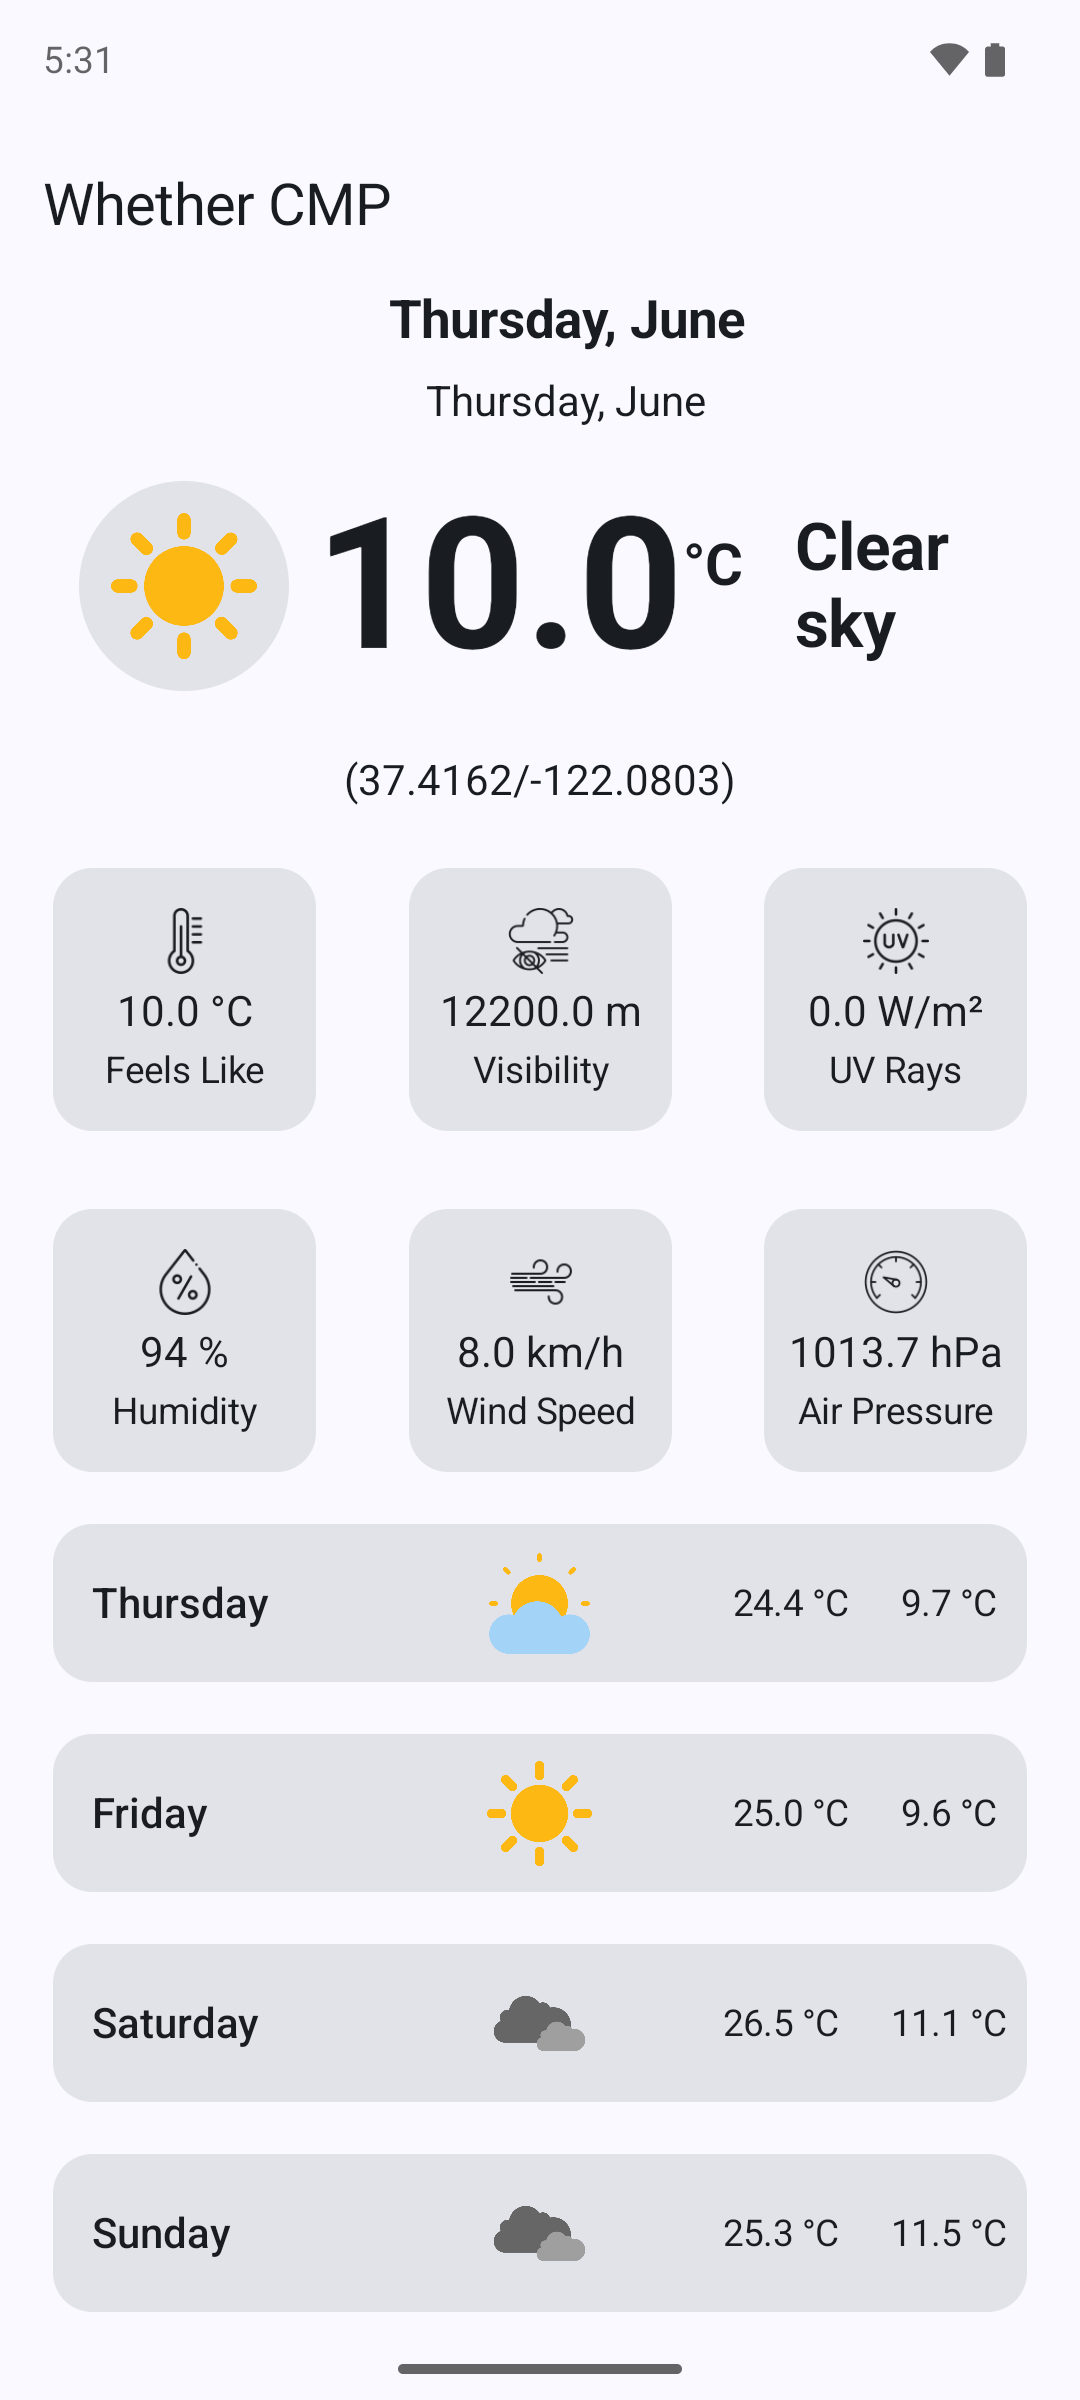
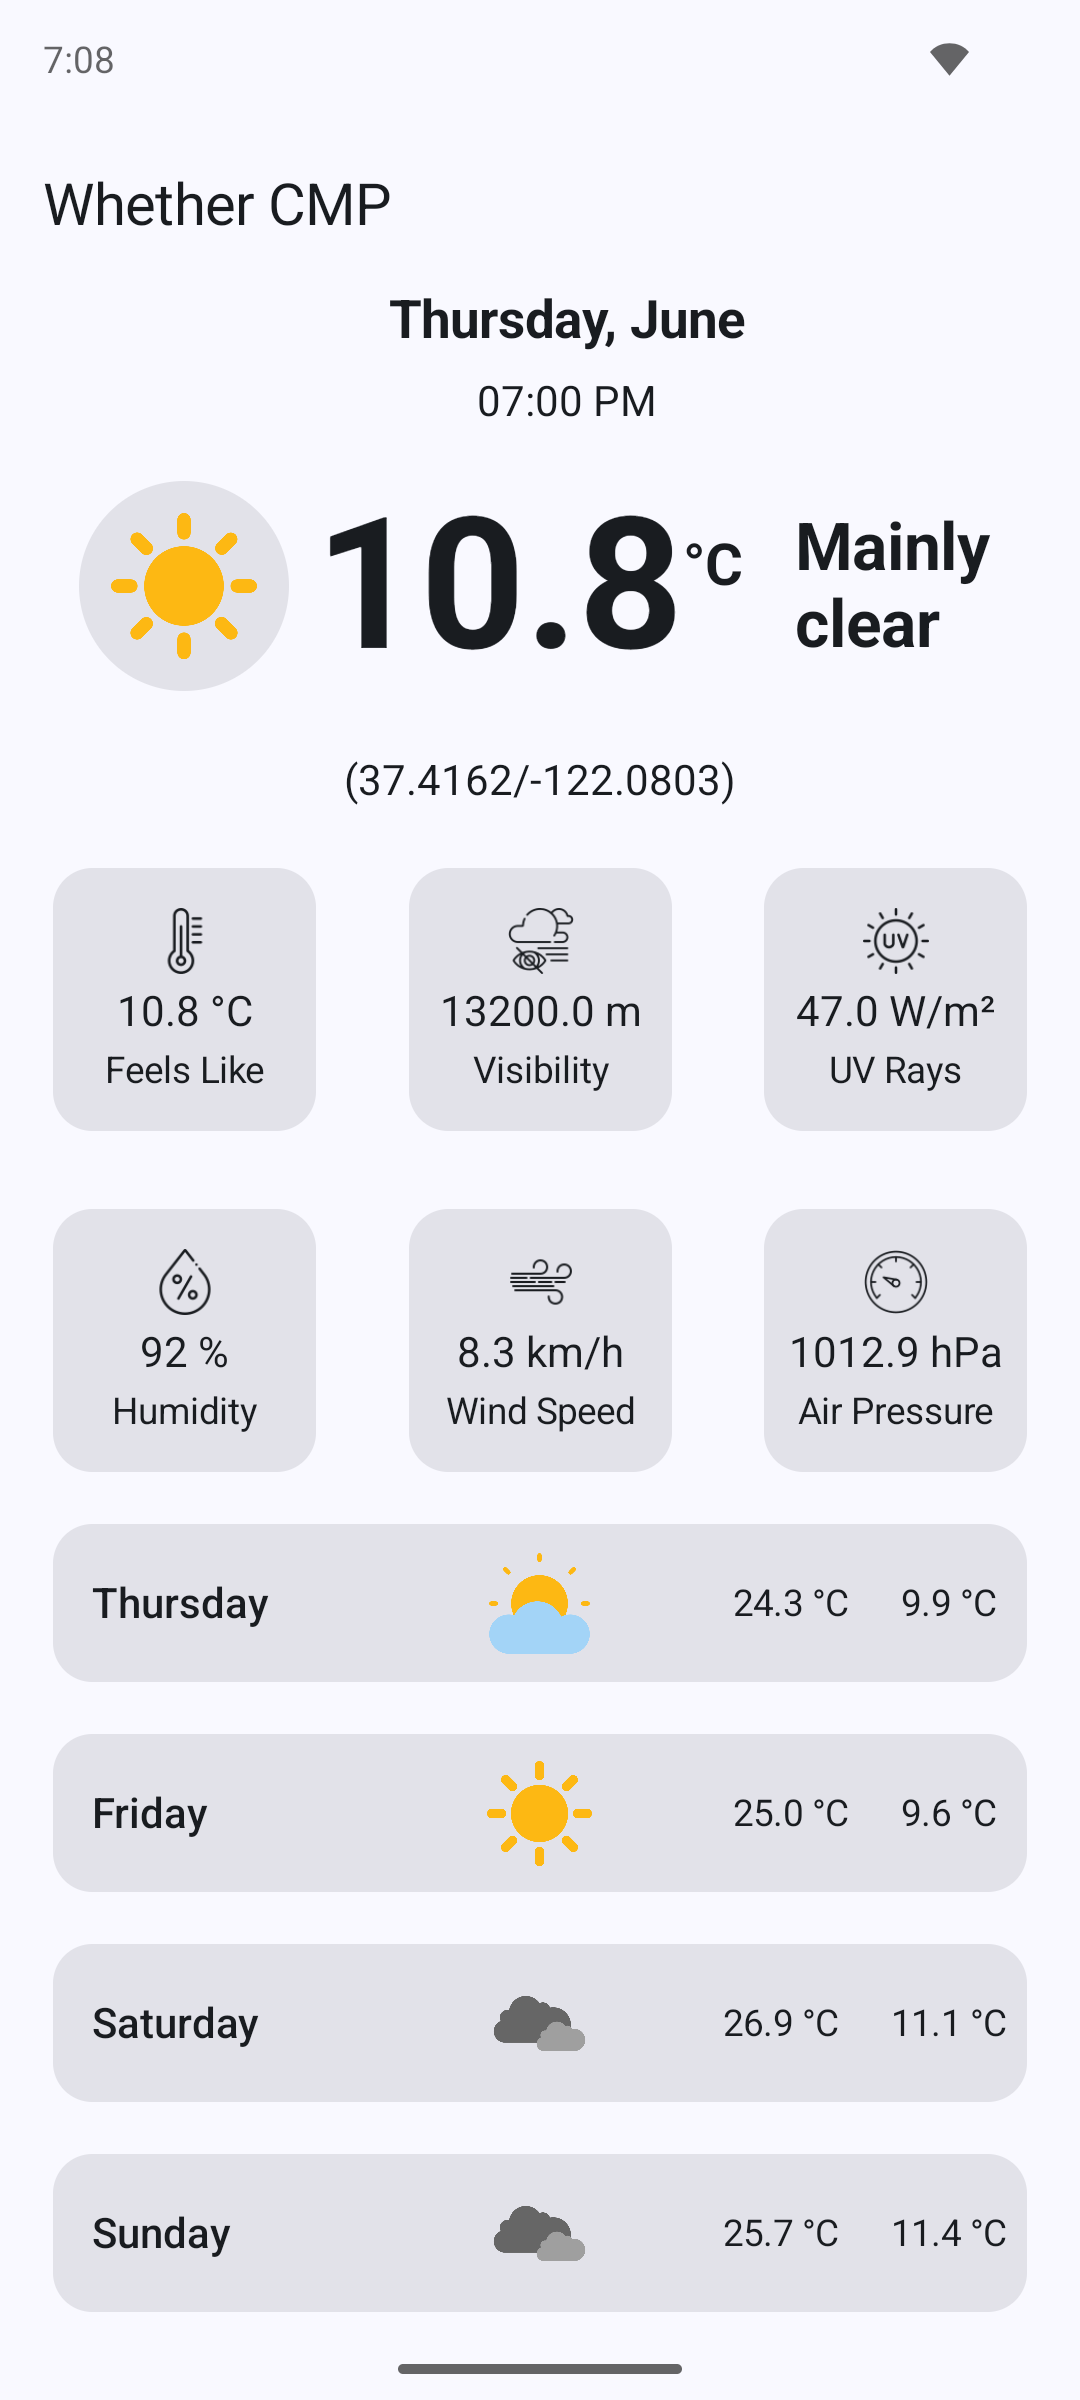
Final commit in the app. Fixes header time added in subheader item, Updated ss for github readme file

diff --git a/composeApp/src/commonMain/kotlin/org/example/project/whether/presentation/utils/WeatherLoadedScreen.kt b/composeApp/src/commonMain/kotlin/org/example/project/whether/presentation/utils/WeatherLoadedScreen.kt
@@ -35,7 +35,7 @@ fun WeatherScreenContent(currentWhether: Whether) {
         )
         headerFormatterTime(
             modifier = Modifier.padding(start = 20.dp),
-            currentWhether.formattedDateTime
+            currentWhether.formatterTime
         )
         headerCurrentWhether(
             modifier = Modifier.fillMaxWidth()
